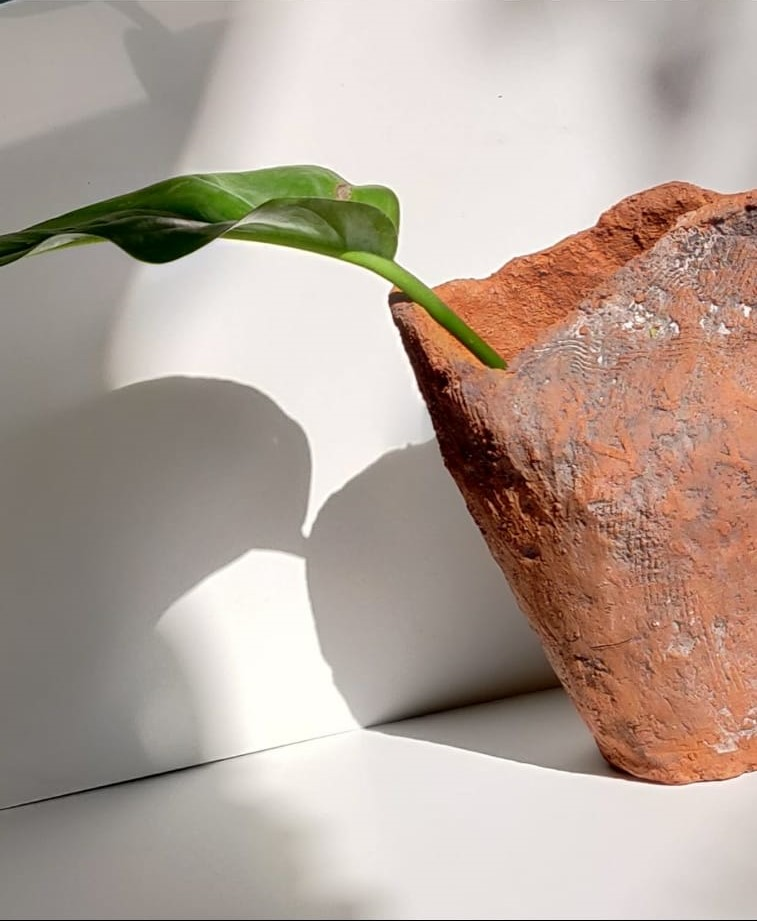
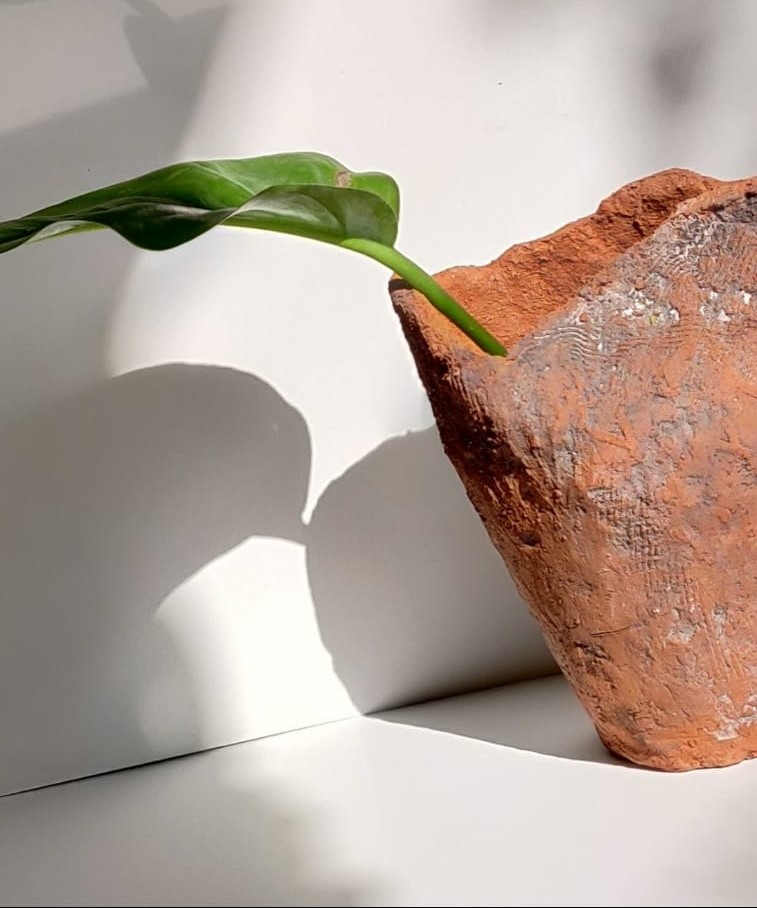
ongoing changes

diff --git a/src/pages/Home.js b/src/pages/Home.js
@@ -318,7 +318,7 @@ marginBottom: "100px",
 
 
           <div className='capt fminerva'>
-            <img loading='lazy' src={about} alt={"https://www.freepik.com/free-vector/set-people-making-pottery-flat-design_4931770.htm#query=pottery&position=5&from_view=search&track=sph"} className="home-img1" style={{ padding: "18%" }} />
+            <img loading='lazy' src={art} alt={"https://www.freepik.com/free-vector/set-people-making-pottery-flat-design_4931770.htm#query=pottery&position=5&from_view=search&track=sph"} className="home-img1" style={{ padding: "18%" }} />
           </div>
 
 
@@ -372,15 +372,13 @@ marginBottom: "100px",
 
         <div className="col1 h-sect1-col2 ftr " style={{ display: "flex", justifyContent: "space-evenly", alignItems: "center", flexDirection: "column", textAlign: "left", width: "40vw",/*height:"40vw",*/minWidth: "300px", padding: "44px", marginBottom: "0" }}>
           <div className='home-about-heading-sect'>
-            <h2 className='fminerva' style={{ textAlign: "left", width: "100%", marginLeft: "30PX" }} >{/*About us*/}Welcome! <br /> <span style={{
+            <h2 className='fminerva' style={{ textAlign: "left", width: "100%", marginLeft: "30PX" }} >{/*About us*/}Embracing Challenges, Igniting Motivation <br /> <span style={{
               color: "rgb(226 143 23)",
               fontWeight: "normal", fontSize: "21PX"
-            }} className='ftr italic'>Creation with my hands</span></h2>
+            }} className='ftr italic'> </span></h2>
           </div>
           <p className='para-mobile ftr' style={{ fontSize: "17px", fontWeight: "normal", fontStyle: "" }}>
-            Welcome to Vinkee Bhasiin ceramics.I am a passionate artisan dedicated to crafting exquisite ceramic pieces that infuse artistry into everyday life. My journey began with a love for clay and a dream to create objects of beauty and utility. Each piece is a testament to meticulous craftsmanship, blending traditional techniques with a touch of modernity.
-            From functional tableware to sculptural marvels, our collection reflects a harmonious blend of form and function. We draw inspiration from nature, culture, and emotions, channeling them into every creation.
-            {/* Sustainability is at the core of our ethos; we strive to leave a gentle footprint on the earth. We invite you to explore our world of ceramics, where each piece tells a story, and every touch evokes a sense of wonder. Thank you for being a part of our creative journey.    */}
+          In this creative odyssey, every setback is a stepping stone. Challenges are not obstacles, but rather sparks that ignite a new wave of motivation. Each hurdle fuels the determination to transcend boundaries, resulting in creations that resonate with authenticity and resilience.{/* Sustainability is at the core of our ethos; we strive to leave a gentle footprint on the earth. We invite you to explore our world of ceramics, where each piece tells a story, and every touch evokes a sense of wonder. Thank you for being a part of our creative journey.    */}
           </p>
         </div>
       </div>

diff --git a/src/App.css b/src/App.css
@@ -919,7 +919,7 @@ transition: 0.3s ease;
   display: flex;
   justify-content: center;
   align-items: center;
-  padding: 40px;
+  /* padding: 40px; */
   background-repeat: no-repeat;
   background-size: cover;
   background-position: center;
@@ -1683,6 +1683,7 @@ margin: auto;
   height: 115px;
   width: 88px;
   margin: auto;
+  object-fit: contain;
   /* margin-left: -19px;
   margin-top: -19px;
   margin-bottom: 36px; */
@@ -2115,6 +2116,51 @@ input:focus{
 .category-subrow1 , .category-subrow2{
   height: 100%;
 }*/
+.tableware-art-sect .abt-col1:before {
+  height: 2px;
+  left: 7%;
+  top: -5%;
+  width: 40%;
+  width: 84%;
+
+}
+.tableware-art-sect .abt-col1:after {
+  height: 2px;
+  background: #95272b;
+  content: "";
+  display: flex;
+  flex-direction: column;
+  justify-content: end;
+  position: absolute;
+  left: 55%;
+  /* top: -5%; */
+  width: 40%;
+  content: "";
+  left: 7%;
+    bottom: 0%;
+    width: 87%;
+    content: "";
+}
+.tableware-art-sect .abt-col2::before {
+  display: flex;
+  justify-content: end;
+  align-items: center;
+  flex-direction: column;
+  width: 2px;
+  height: 293px;
+  background: rgb(149 39 43);
+  content: '';
+  position: absolute;
+  top: 28%;
+  left: 50%;
+}
+.image-col::before {
+  left: 50%;
+  height: 48%;
+  bottom: 10%;
+
+}
+
 
 
 

diff --git a/src/pages/components/Footer.js b/src/pages/components/Footer.js
@@ -177,7 +177,7 @@ export default function Footer(){
   	 			</div>
   	 		</div>
   	 	</div>
-		<p style={{color:"#909090"}}>Icons by Icons8 , Images by FreePik</p>
+		{/* <p style={{color:"#909090"}}>Icons by Icons8 , Images by FreePik</p> */}
   	 </div>
 
 
